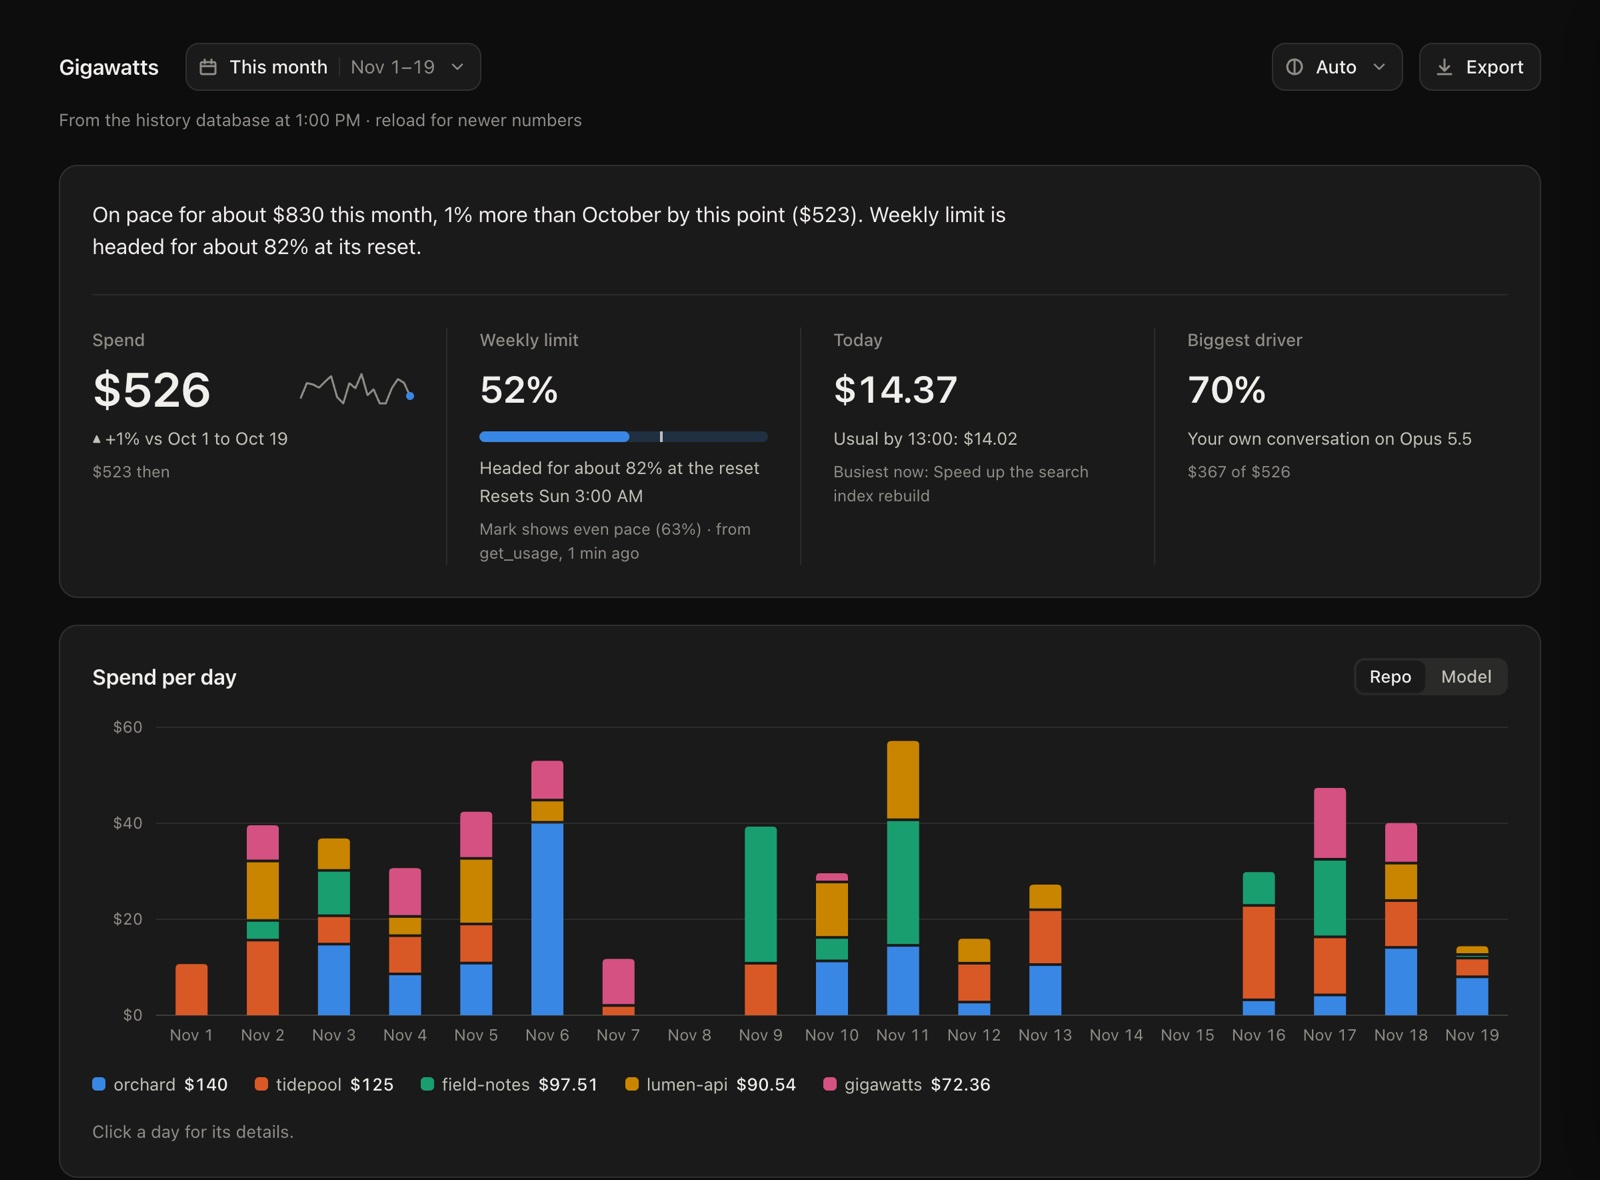
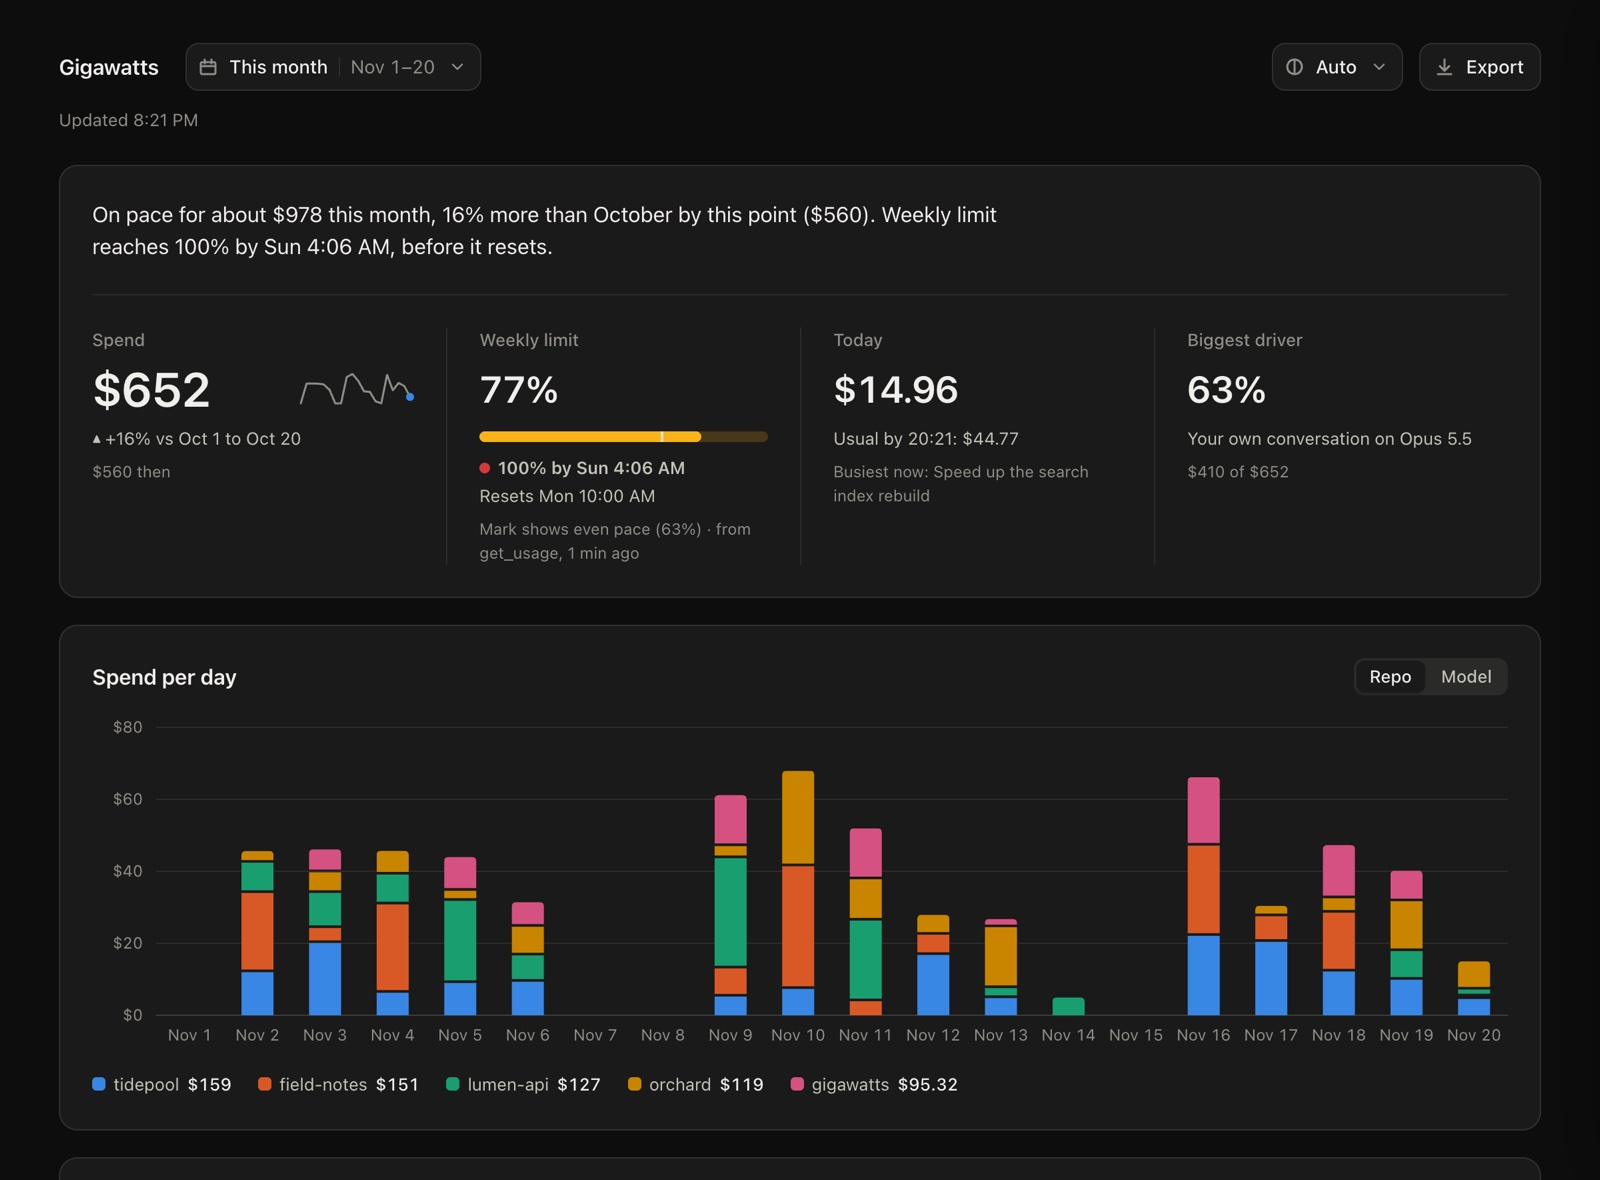
Show when the report last fetched its numbers
The subtitle showed the time of the last redraw, which moves forward on an account switch, tab change, or window resize with the numbers unchanged. It now shows the time of the last full fetch, with the date once that's an earlier day, since a tab left open overnight never refetches on its own.

diff --git a/src/report/page.html b/src/report/page.html
@@ -699,6 +699,12 @@ function shortDate(day) {
   return new Date(day + 'T00:00:00Z').toLocaleDateString(undefined, {month: 'short', day: 'numeric', timeZone: 'UTC'});
 }
 
+function updatedLine(at) {
+  const time = at.toLocaleTimeString([], {hour: 'numeric', minute: '2-digit'});
+  if (at.toDateString() === new Date().toDateString()) return `Updated ${time}`;
+  return `Updated ${at.toLocaleDateString([], {month: 'short', day: 'numeric'})}, ${time}`;
+}
+
 function longDate(ms) {
   return new Date(ms).toLocaleDateString(undefined, {weekday: 'short', month: 'short', day: 'numeric'});
 }
@@ -2899,7 +2905,7 @@ async function load() {
       previous ? fetchJson('/api/data?' + scopeParams(new URLSearchParams(previous.params))) : null,
       fetchJson(`/api/data?since=${lastMonth.since}&until=${lastMonth.sameDay}&by=model`),
     ]);
-    latest = {now, data, mix, series, agents, month, sessions, history, first, last, previous, previousData, lastMonth, lastMonthData, accountData, advice, limits, insights: insightsAnswer};
+    latest = {now, data, mix, series, agents, month, sessions, history, first, last, previous, previousData, lastMonth, lastMonthData, accountData, advice, limits, insights: insightsAnswer, fetchedAt: new Date()};
     render();
     if (breakdownGrouping() !== by) loadBreakdown();
     if (chartGrouping() !== chart) loadChart();
@@ -2992,7 +2998,7 @@ function render() {
   drawControls(latest.now.accounts, view);
   const source = document.getElementById('source');
   source.className = 'source';
-  source.textContent = `From the history database at ${new Date().toLocaleTimeString([], {hour: 'numeric', minute: '2-digit'})} · reload for newer numbers`;
+  source.textContent = updatedLine(latest.fetchedAt);
   drawnWidth = chartWidth();
   const chart = spendChart(view, chartGrouping(), view.series, true);
   const sections = [];
